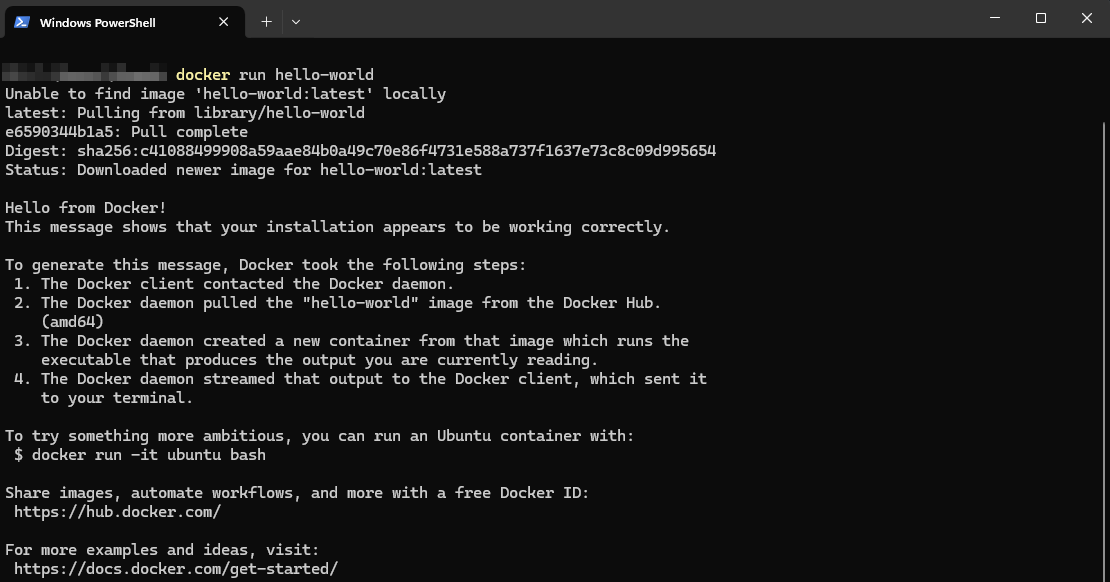
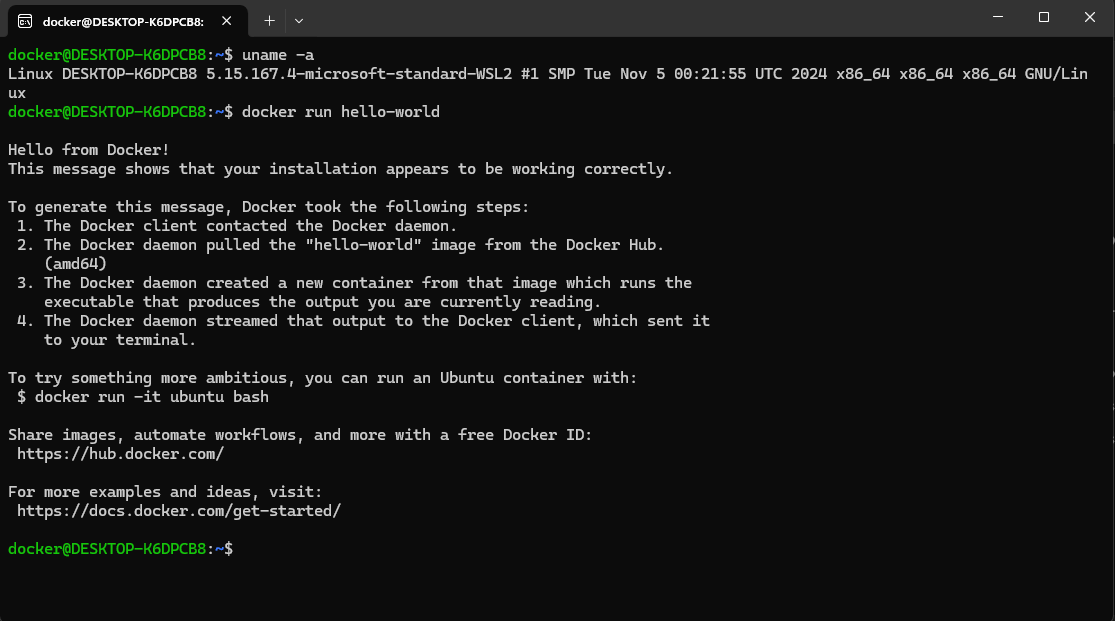
added more

Changed region(s): [[0.0, 0.0, 1.0, 0.8969], [0.9802, 0.1856, 1.0, 1.0], [0.0, 0.9278, 0.3063, 0.9897]]

diff --git a/mcp-setup-final-1500-with-kicking-tyres.md b/mcp-setup-final-1500-with-kicking-tyres.md
@@ -27,9 +27,8 @@ Let's dive in! 🚀
 
 Before proceeding, make sure you have:
 
-- **WSL2** (Windows Only)
+- **WSL2 & Ubuntu** (Windows Only)
 - **Docker Desktop** installed (for Windows/macOS)
-- **Git Bash** (Windows Only)
 - **MCP-compatible client** (Claude Desktop, Cursor, Windsurf)
 - **Brave Search API Key** (optional for internet search)
 - **Postgres Database credentials** (optional for database integration)
@@ -39,7 +38,7 @@ Before proceeding, make sure you have:
 
 ## Platform Setup
 
-### 🪟 Windows (WSL2 + Docker Desktop + Git)
+### 🪟 Windows (WSL2 + Ubuntu + Docker Desktop)
 
 From the Start menu in Windows 10/11, search for **"Turn Windows features on or off"** and select it.
 
@@ -85,28 +84,21 @@ Apply the changes, and the system will prompt you to restart!
 
    ![image info](./images/enable_wsl2_docker.png)
 
-5. Optionally, enable Ubuntu in Docker Desktop.
+5. Enable Ubuntu in Docker Desktop.
 
 
    ![image info](./images/optinal_enable.png)
+  
+6. Apply & restart Docker Desktop.
 
-6. Test Docker using PowerShell:
+7. Test Docker Desktop using Ubuntu terminal in Windows :
 
    ```bash
    docker run hello-world
    ```
    ![image info](./images/test_docker.png)
 
-7.   [Download](https://git-scm.com/downloads/win) and install Git Bash.
 
-8. Verify Git installation:
-
-   ```bash
-   git version
-   ```
-
-
-   ![image info](./images/git.png)
 ### 🍎 macOS
 
 1. [Download](https://www.docker.com/products/docker-desktop/) and install Docker Desktop for Mac.
@@ -126,29 +118,165 @@ Apply the changes, and the system will prompt you to restart!
 
 ## Setting Up MCP Servers
 
-We will configure multiple MCP tools such as Filesystem, Brave Search, PostgreSQL, and others.
+We will configure multiple MCP servers such as Filesystem, Brave Search, PostgreSQL, and others.
 
-Each tool runs as an isolated Docker container that your AI client can launch automatically.
+Each server runs as an isolated Docker container that your AI client can launch automatically.
 
 Below is a list of the MCP servers we will set up:
 
-| MCP Server          | Description                                     | Notes / Environment Variables |
-|----------------------|-------------------------------------------------|-------------------------------|
-| Git                  | Git repository access and operations           | None |
-| Time                 | Time and timezone utilities                    | None |
-| Sqlite               | SQLite database interactions                   | None |
-| Fetch                | Web content fetching and parsing               | None |
-| Sequential Thinking  | Dynamic thought sequence problem-solving       | None |
-| Puppeteer            | Browser automation and web scraping            | `DOCKER_CONTAINER=true` |
-| PostgreSQL           | PostgreSQL database access                     | Connection string needed: `postgresql://host.docker.internal:5432/mydb` |
-| Memory               | Persistent knowledge graph memory              | None |
-| Google Maps          | Location services and directions               | `GOOGLE_MAPS_API_KEY=YOUR-KEY-HERE` |
-| Filesystem           | Secure local file system operations            | Requires folder bind mount: `/Users/YOUR_FOLDER/bot-env -> /projects/bot-env` |
-| Brave Search         | Web and local search via Brave API             | `BRAVE_API_KEY=YOUR-KEY-HERE` |
+| MCP Server           | Description                                  | Notes / Environment Variables |
+|----------------------|----------------------------------------------|--------------------------------|
+| Git                  | Git repository access and operations        | None |
+| Time                 | Time and timezone utilities                 | None |
+| Sqlite               | SQLite database interactions                | None |
+| Fetch                | Web content fetching and parsing            | None |
+| Sequential Thinking  | Dynamic thought sequence problem-solving    | None |
+| Puppeteer            | Browser automation and web scraping         | `DOCKER_CONTAINER=true` |
+| PostgreSQL           | PostgreSQL database access                  | Connection string: `postgresql://host.docker.internal:5432/mydb` |
+| Memory               | Persistent knowledge graph memory           | None |
+| Google Maps          | Location services and directions            | `GOOGLE_MAPS_API_KEY=YOUR-KEY-HERE` |
+| Filesystem           | Secure local file system operations         | Folder bind mount required: `/Users/YOUR_FOLDER/bot-env -> /projects/bot-env` |
+| Brave Search         | Web and local search via Brave API           | `BRAVE_API_KEY=YOUR-KEY-HERE` |
 
 ---
 
-### 1. Filesystem Tool
+## Build MCP Server Images with Docker
+
+Follow these steps based on your operating system:
+
+### 🐧 Windows (WSL2 Ubuntu) and 🖥 macOS Users
+
+1. **Clone the Repository**  
+   Clone the MCP servers repository to your local machine:
+   ```bash
+   git clone https://github.com/modelcontextprotocol/servers.git
+   ```
+
+2. **Navigate to the Repository Directory**: Change directory to the cloned repository:
+
+    ```bash
+    cd servers
+    ```
+
+3. **Create a new file**: Create a **build_all.sh** file in the root directory of the project and paste the following content:
+
+    ```bash
+    #!/bin/bash
+    set -euo pipefail
+
+    # Determine the directory of this script so that relative paths are correct
+    SCRIPT_DIR=$(cd "$(dirname "${BASH_SOURCE[0]}")" && pwd)
+    DOCKER_SRC_DIR="$SCRIPT_DIR/src"
+
+    # Loop over each subdirectory inside the src folder
+    for folder in "$DOCKER_SRC_DIR"/*; do
+        if [ -d "$folder" ]; then
+            dockerfile="$folder/Dockerfile"
+            folder_name=$(basename "$folder")
+            if [ -f "$dockerfile" ]; then
+                # If Dockerfile references uv.lock, ensure the file exists in the project folder
+                if grep -q "uv\.lock" "$dockerfile"; then
+                    if [ ! -f "$folder/uv.lock" ]; then
+                        echo "Skipping '$folder_name': Dockerfile references uv.lock but file not found in $folder"
+                        continue
+                    fi
+                fi
+
+                # Determine build context:
+                # If the Dockerfile contains "COPY src/<folder_name>", it expects to be run from the repository root.
+                if grep -E -q "COPY[[:space:]]+src/${folder_name}\b" "$dockerfile"; then
+                    context="$SCRIPT_DIR"
+                    echo "Building Docker image for '$folder_name' using $dockerfile with repository root as context"
+                else
+                    context="$folder"
+                    echo "Building Docker image for '$folder_name' using $dockerfile with project folder as context"
+                fi
+
+                docker build -t "$folder_name" -f "$dockerfile" "$context"
+            else
+                echo "Skipping '$folder_name': Dockerfile not found"
+            fi
+        fi
+    done
+
+    ```
+
+4. **Make Script Executable**: Make shell script executable:
+
+    ```bash
+    chmod +x build_all.sh
+    ``` 
+5. **Run the Script with `sudo`**  
+   The `build_all.sh` script needs to be run with root access (`sudo`) because it builds Docker images, which require elevated permissions.  
+   Ensure your user account has the necessary privileges.
+
+   When you run the script, it will:
+   - Automatically detect each MCP server directory under the `src/` folder.
+   - Check if a valid `Dockerfile` exists for that server.
+   - Verify if any additional dependencies (like `uv.lock`) are required.
+   - Select the correct Docker build context (either the project root or the individual service folder).
+   - Build a Docker image for each MCP server and tag it with the server name (e.g., `git`, `fetch`, `filesystem`, `brave-search`, etc.).
+
+   > ⚡ **Note:** This process will sequentially build multiple images. The time it takes depends on your machine's resources and internet speed (for downloading base images).
+
+   To run the script:
+
+   ```bash
+   sudo ./build_all.sh
+
+
+
+
+
+
+
+
+
+
+
+
+
+
+
+
+
+
+
+
+
+
+
+
+
+
+
+
+
+
+
+
+
+
+
+
+
+
+
+
+
+
+
+
+
+
+
+
+
+
+
+
+
+## 1. Filesystem Tool
 
 Allows your AI to securely read/write local files.
 
